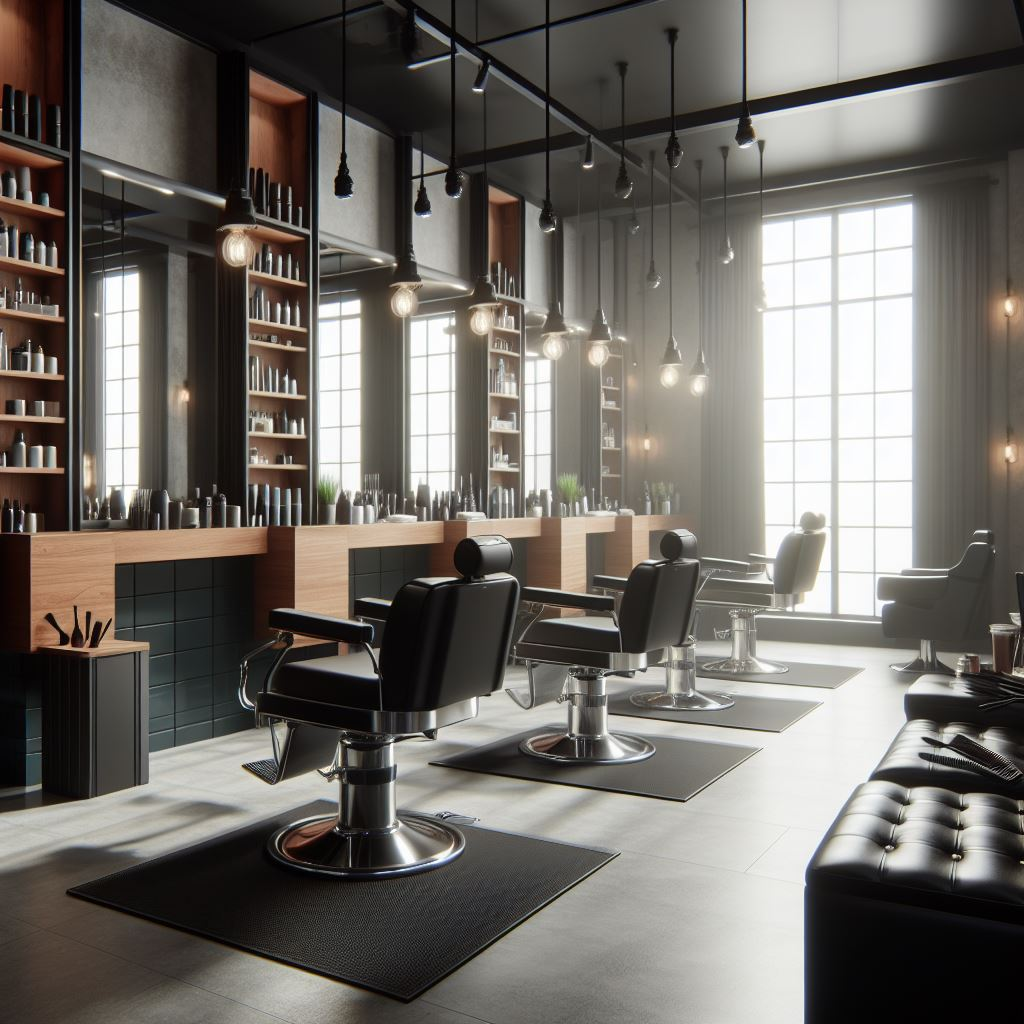
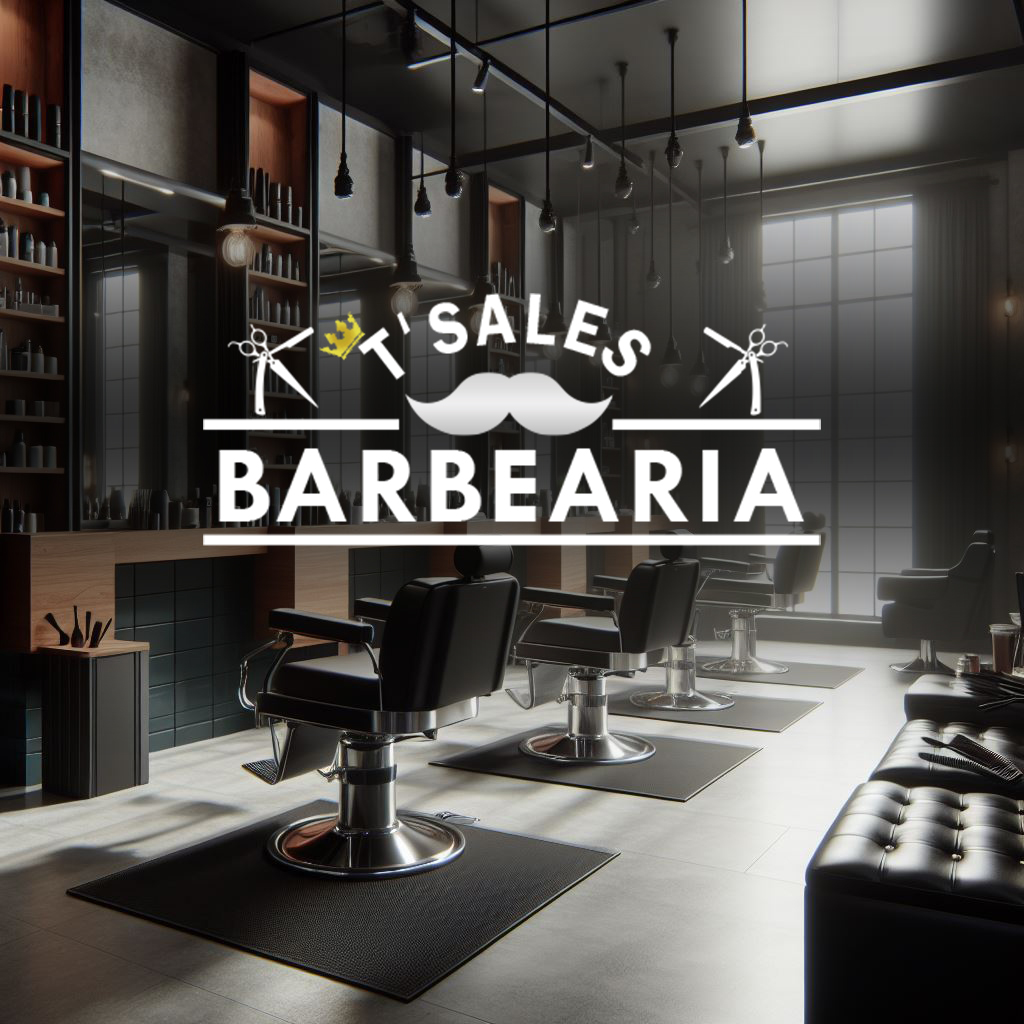
update img

diff --git a/App_Barbearia/templates/navbar.html b/App_Barbearia/templates/navbar.html
@@ -4,7 +4,7 @@
       style="font-family: 'Brush Script MT', cursive; font-size: 2rem;">
       <img src="{{ url_for('static', filename='logo-barbearia.jpeg') }}" alt="Logo"
         style="height: 50px; margin-right: 10px; border-radius: 50%;">
-      CorteFácil
+      <span style="font-family: 'Gill Sans', 'Gill Sans MT', Calibri, 'Trebuchet MS', sans-serif;"><em>T'Sales Barbearia</em></span>
     </a>
 
     <button class="navbar-toggler" type="button" data-bs-toggle="collapse" data-bs-target="#navbarNav"

diff --git a/App_Barbearia/templates/home.html b/App_Barbearia/templates/home.html
@@ -12,7 +12,7 @@
 <body>
     <section class="hero">
         <div class="hero-content">
-    <h1>CorteFácil</h1>
+    <h1>Corte Fácil</h1>
     <p>Sua barbearia conectada com estilo e agilidade</p>
     {% if current_user.is_authenticated %}
         {% if current_user.role == 'admin' %}
